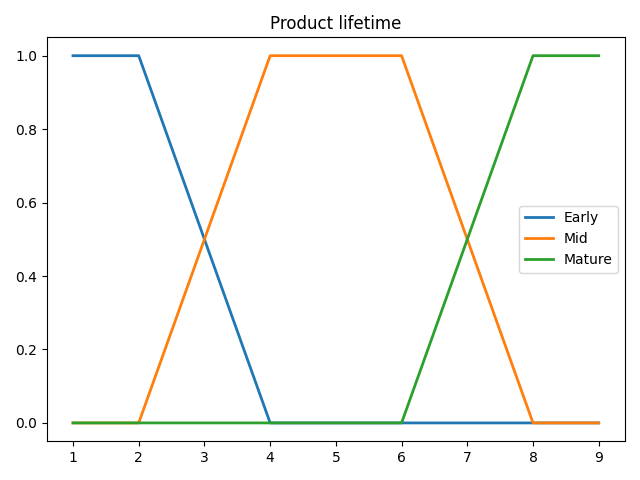
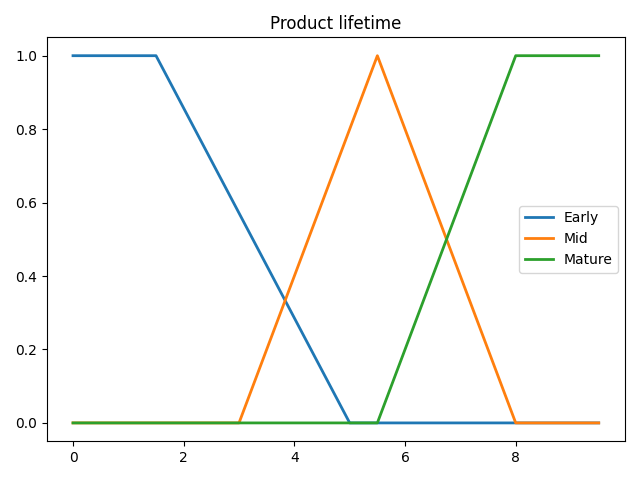
Added membership functions and rules

diff --git a/src/main.py b/src/main.py
@@ -1,13 +1,13 @@
 from src.fuzzy.InferenceSystem import FuzzyInferenceSystem as Fis
 
 # Inputs--------------------------------------------------------------------------------------------------------------#
-basePrice_usd = 50
-productLifetime_years = 10
-monthlyActive_users = 10
-thirdParty_integrations = 3
-enterprise_features = 3
-branding_usd = 100
-targetAudienceMeanIncome_usd = 50000
+basePrice_usd = 50                      # Base price of the products
+productLifetime_years = 10              # How long has the product bee on the market
+monthlyActive_kUsers = 10               # How many monthly active users use the product
+thirdParty_integrations = 3             # How many third party integrations does the product offer
+enterprise_features = 3                 # How many enterprise features does the product offer
+branding_percent = 25                   # What percentage of revenue is spent on marketing
+targetAudienceMeanIncome_kUsd = 50      # Mean income of the targeted audience
 # Inputs--------------------------------------------------------------------------------------------------------------#
 
 # Initialization of the Fuzzy Inference System
@@ -15,64 +15,58 @@ fuzzyInferenceSystem = Fis()
 
 # Here we declare all the input fuzzy sets and their membership functions (MF)
 # MF types can be 'trapezoidal' or 'triangular'
-# todo - set ranges
 set1_name = "product_lifetime"
 fuzzyInferenceSystem\
-    .add_set(name=set1_name, x_min=1, x_max=10, step=1, x=productLifetime_years)\
-    .add_subset(name="early", set_name=set1_name, membership_range=[-30, -5, 2, 4], mf_type="trapezoidal")\
-    .add_subset(name="mid", set_name=set1_name, membership_range=[2, 4, 6, 8], mf_type="trapezoidal")\
-    .add_subset(name="mature", set_name=set1_name, membership_range=[6, 8, 17, 30], mf_type="trapezoidal")
+    .add_set(name=set1_name, x_min=0, x_max=10, step=.5, x=productLifetime_years)\
+    .add_subset(name="early", set_name=set1_name, membership_range=[0, 0, 1.5, 5], mf_type="trapezoidal")\
+    .add_subset(name="mid", set_name=set1_name, membership_range=[3, 5.5, 8], mf_type="triangular")\
+    .add_subset(name="mature", set_name=set1_name, membership_range=[5.5, 8, 10, 10], mf_type="trapezoidal")
 
-# todo - set ranges
 set2_name = "monthly_active_users"
 fuzzyInferenceSystem\
-    .add_set(name=set2_name, x_min=1, x_max=10, step=1, x=monthlyActive_users)\
-    .add_subset(name="low", set_name=set2_name, membership_range=[-30, -5, 2, 4], mf_type="trapezoidal")\
-    .add_subset(name="mid", set_name=set2_name, membership_range=[2, 4, 6, 8], mf_type="trapezoidal")\
-    .add_subset(name="high", set_name=set2_name, membership_range=[6, 8, 17, 30], mf_type="trapezoidal")
+    .add_set(name=set2_name, x_min=0, x_max=100, step=.001, x=monthlyActive_kUsers)\
+    .add_subset(name="low", set_name=set2_name, membership_range=[0, 0, 10], mf_type="triangular")\
+    .add_subset(name="mid", set_name=set2_name, membership_range=[5, 20, 50, 65], mf_type="trapezoidal")\
+    .add_subset(name="high", set_name=set2_name, membership_range=[40, 60, 100, 100], mf_type="trapezoidal")
 
-# todo - set ranges
 set3_name = "third_party_integrations"
 fuzzyInferenceSystem\
-    .add_set(name=set3_name, x_min=1, x_max=10, step=1, x=thirdParty_integrations)\
-    .add_subset(name="low", set_name=set3_name, membership_range=[-30, -5, 2, 4], mf_type="trapezoidal")\
-    .add_subset(name="mid", set_name=set3_name, membership_range=[2, 4, 6, 8], mf_type="trapezoidal")\
-    .add_subset(name="high", set_name=set3_name, membership_range=[6, 8, 17, 30], mf_type="trapezoidal")
+    .add_set(name=set3_name, x_min=0, x_max=100, step=1, x=thirdParty_integrations)\
+    .add_subset(name="low", set_name=set3_name, membership_range=[0, 0, 10, 20], mf_type="trapezoidal")\
+    .add_subset(name="mid", set_name=set3_name, membership_range=[10, 25, 45, 70], mf_type="trapezoidal")\
+    .add_subset(name="high", set_name=set3_name, membership_range=[40, 60, 100, 100], mf_type="trapezoidal")
 
-# todo - set ranges
 set4_name = "enterprise_features"
 fuzzyInferenceSystem\
-    .add_set(name=set4_name, x_min=1, x_max=10, step=1, x=enterprise_features)\
-    .add_subset(name="low", set_name=set4_name, membership_range=[-30, -5, 2, 4], mf_type="trapezoidal")\
-    .add_subset(name="mid", set_name=set4_name, membership_range=[2, 4, 6, 8], mf_type="trapezoidal")\
-    .add_subset(name="high", set_name=set4_name, membership_range=[6, 8, 17, 30], mf_type="trapezoidal")
+    .add_set(name=set4_name, x_min=0, x_max=10, step=1, x=enterprise_features)\
+    .add_subset(name="low", set_name=set4_name, membership_range=[0, 0, 2], mf_type="triangular")\
+    .add_subset(name="mid", set_name=set4_name, membership_range=[1, 2, 5, 6], mf_type="trapezoidal")\
+    .add_subset(name="high", set_name=set4_name, membership_range=[5, 6, 10, 10], mf_type="trapezoidal")
 
-# todo - set ranges
 set5_name = "branding"
 fuzzyInferenceSystem\
-    .add_set(name=set5_name, x_min=1, x_max=10, step=1, x=branding_usd)\
-    .add_subset(name="budget", set_name=set5_name, membership_range=[-30, -5, 2, 4], mf_type="trapezoidal")\
-    .add_subset(name="value", set_name=set5_name, membership_range=[2, 4, 6, 8], mf_type="trapezoidal")\
-    .add_subset(name="premium", set_name=set5_name, membership_range=[6, 8, 17, 30], mf_type="trapezoidal")
+    .add_set(name=set5_name, x_min=0, x_max=100, step=.1, x=branding_percent)\
+    .add_subset(name="budget", set_name=set5_name, membership_range=[0, 0, 10, 30], mf_type="trapezoidal")\
+    .add_subset(name="value", set_name=set5_name, membership_range=[20, 30, 50, 70], mf_type="trapezoidal")\
+    .add_subset(name="premium", set_name=set5_name, membership_range=[50, 65, 100, 100], mf_type="trapezoidal")
 
-# todo - set ranges
 set7_name = "target_audience_mean_income"
 fuzzyInferenceSystem\
-    .add_set(name=set7_name, x_min=1, x_max=10, step=1, x=targetAudienceMeanIncome_usd)\
-    .add_subset(name="low", set_name=set7_name, membership_range=[-30, -5, 2, 4], mf_type="trapezoidal")\
-    .add_subset(name="mid", set_name=set7_name, membership_range=[2, 4, 6, 8], mf_type="trapezoidal")\
-    .add_subset(name="high", set_name=set7_name, membership_range=[6, 8, 17, 30], mf_type="trapezoidal")
+    .add_set(name=set7_name, x_min=0, x_max=300, step=1, x=targetAudienceMeanIncome_kUsd)\
+    .add_subset(name="low", set_name=set7_name, membership_range=[0, 0, 10, 45], mf_type="trapezoidal")\
+    .add_subset(name="mid", set_name=set7_name, membership_range=[25, 60, 120, 180], mf_type="trapezoidal")\
+    .add_subset(name="high", set_name=set7_name, membership_range=[110, 190, 300, 300], mf_type="trapezoidal")
 
 
 # Here we declare the output fuzzy set which is the profit margin suggestion. We set a minimum margin of 10% and a
 # maximum margin of 300%, we also map the five trapezoidal shaped subsets accordingly.
 fuzzyInferenceSystem\
     .add_out_set(name="output_margin", x_min=0, x_max=3, step=0.01)\
-    .add_out_subset(name="slim", membership_range=[-20, -20, 0.1, 0.25], mf_type="trapezoidal")\
+    .add_out_subset(name="slim", membership_range=[0, 0, 0.1, 0.25], mf_type="trapezoidal")\
     .add_out_subset(name="little", membership_range=[0.1, 0.35, 0.7], mf_type="triangular")\
     .add_out_subset(name="mid", membership_range=[0.4, 0.9, 1.4], mf_type="triangular")\
     .add_out_subset(name="high", membership_range=[1, 1.62, 2.25], mf_type="triangular")\
-    .add_out_subset(name="very_high", membership_range=[1.75, 2.25, 20, 20], mf_type="trapezoidal")
+    .add_out_subset(name="very_high", membership_range=[1.75, 2.25, 3, 3], mf_type="trapezoidal")
 
 # Plot the sets
 fuzzyInferenceSystem.plot_sets()
@@ -81,13 +75,40 @@ fuzzyInferenceSystem.plot_sets()
 # list stores all the input subsets that lead to that output subset. That list is populated by strings that are composed
 # by the name of the fuzzy set, and it's subset separated by a dot character. This way the list of rules is readable.
 rule_list = [
-    ["Rule#1", "little",    ["product_lifetime.early"]],
-    ["Rule#2", "slim",      ["product_lifetime.early", "branding.budget"]],
-    ["Rule#3", "slim",      ["product_lifetime.early", "target_audience_mean_income.low"]],
-    ["Rule#4", "little",    ["product_lifetime.early", "branding.value", "target_audience_mean_income.mid"]],
-    ["Rule#5", "mid",       ["product_lifetime.early", "branding.premium", "target_audience_mean_income.high"]],
-    ["Rule#6", "little",    ["product_lifetime.mid", "monthly_active_users.low"]],
+    ["Rule#1", "little",        ["product_lifetime.early"]],
+    ["Rule#2", "slim",          ["product_lifetime.early", "branding.budget"]],
+    ["Rule#3", "slim",          ["product_lifetime.early", "target_audience_mean_income.low"]],
+    ["Rule#4", "little",        ["product_lifetime.early", "branding.value", "target_audience_mean_income.mid"]],
+    ["Rule#5", "mid",           ["product_lifetime.early", "branding.premium", "target_audience_mean_income.high"]],
+    ["Rule#6", "little",        ["product_lifetime.mid", "monthly_active_users.low"]],
+    ["Rule#7", "little",        ["product_lifetime.mid", "third_party_integrations.low"]],
+    ["Rule#8", "little",        ["product_lifetime.mid", "branding.value"]],
+    ["Rule#9", "mid",           ["product_lifetime.mid", "target_audience_mean_income.mid"]],
+    ["Rule#10", "high",         ["product_lifetime.mid", "target_audience_mean_income.high"]],
+    ["Rule#11", "high",         ["product_lifetime.mid", "monthly_active_users.mid", "target_audience_mean_income.mid"]],
+    ["Rule#12", "mid",          ["product_lifetime.mid", "enterprise_features.mid"]],
+    ["Rule#13", "high",         ["product_lifetime.mid", "enterprise_features.high"]],
+    ["Rule#14", "very_high",    ["product_lifetime.mid", "enterprise_features.high", "branding.premium"]],
+    ["Rule#15", "high",         ["product_lifetime.mid", "monthly_active_users.high", "third_party_integrations.high"]],
+    ["Rule#16", "mid",          ["product_lifetime.mid", "third_party_integrations.mid", "enterprise_features.low"]],
+    ["Rule#17", "mid",          ["product_lifetime.mid", "branding.budget", "target_audience_mean_income.high"]],
+    ["Rule#18", "little",       ["product_lifetime.mature", "monthly_active_users.low", "third_party_integrations.low", "enterprise_features.low"]],
+    ["Rule#19", "high",         ["product_lifetime.mature", "monthly_active_users.high", "enterprise_features.high"]],
+    ["Rule#20", "very_high",    ["product_lifetime.mature", "monthly_active_users.high", "third_party_integrations.high", "enterprise_features.high"]],
+    ["Rule#21", "high",         ["product_lifetime.mature", "branding.premium", "target_audience_mean_income.high"]],
+    ["Rule#22", "mid",          ["product_lifetime.mature", "branding.value", "target_audience_mean_income.mid"]],
+    ["Rule#23", "mid",          ["product_lifetime.mature", "third_party_integrations.mid", "target_audience_mean_income.low"]],
+    ["Rule#24", "mid",          ["product_lifetime.mature", "monthly_active_users.mid", "third_party_integrations.high"]],
+    ["Rule#25", "high",         ["product_lifetime.mature", "enterprise_features.mid", "branding.premium"]],
+    ["Rule#26", "high",         ["monthly_active_users.high", "third_party_integrations.high", "enterprise_features.high"]],
+    ["Rule#27", "very_high",    ["monthly_active_users.high", "third_party_integrations.high", "enterprise_features.high", "branding.premium", "target_audience_mean_income.high"]],
+    ["Rule#28", "little",       ["monthly_active_users.low", "third_party_integrations.low", "enterprise_features.low", "branding.budget"]],
+    ["Rule#29", "mid",          ["monthly_active_users.mid", "third_party_integrations.mid", "enterprise_features.mid"]],
+    ["Rule#30", "mid",          ["branding.value", "target_audience_mean_income.mid"]],
+    ["Rule#31", "slim",         ["monthly_active_users.low", "third_party_integrations.low", "enterprise_features.low", "branding.budget", "target_audience_mean_income.low"]],
+    ["Rule#32", "high",         ["third_party_integrations.low", "enterprise_features.low", "branding.premium", "target_audience_mean_income.high"]],
 ]
+# All the rules are inserted into the FIS
 for rule_item in rule_list:
     fuzzyInferenceSystem.add_rule(name=rule_item[0], out_subset=rule_item[1], rules_list=rule_item[2])
 

diff --git a/src/fuzzy/Set.py b/src/fuzzy/Set.py
@@ -18,8 +18,8 @@ class FuzzySet:
         return self
 
     def plot(self):
-        if self.name != "product_lifetime":  # todo - remove
-            return self
+        # comment line below to plot MF
+        return self
 
         plots_dir_path = os.path.abspath("../plots")
         fig, ax0 = plt.subplots()
